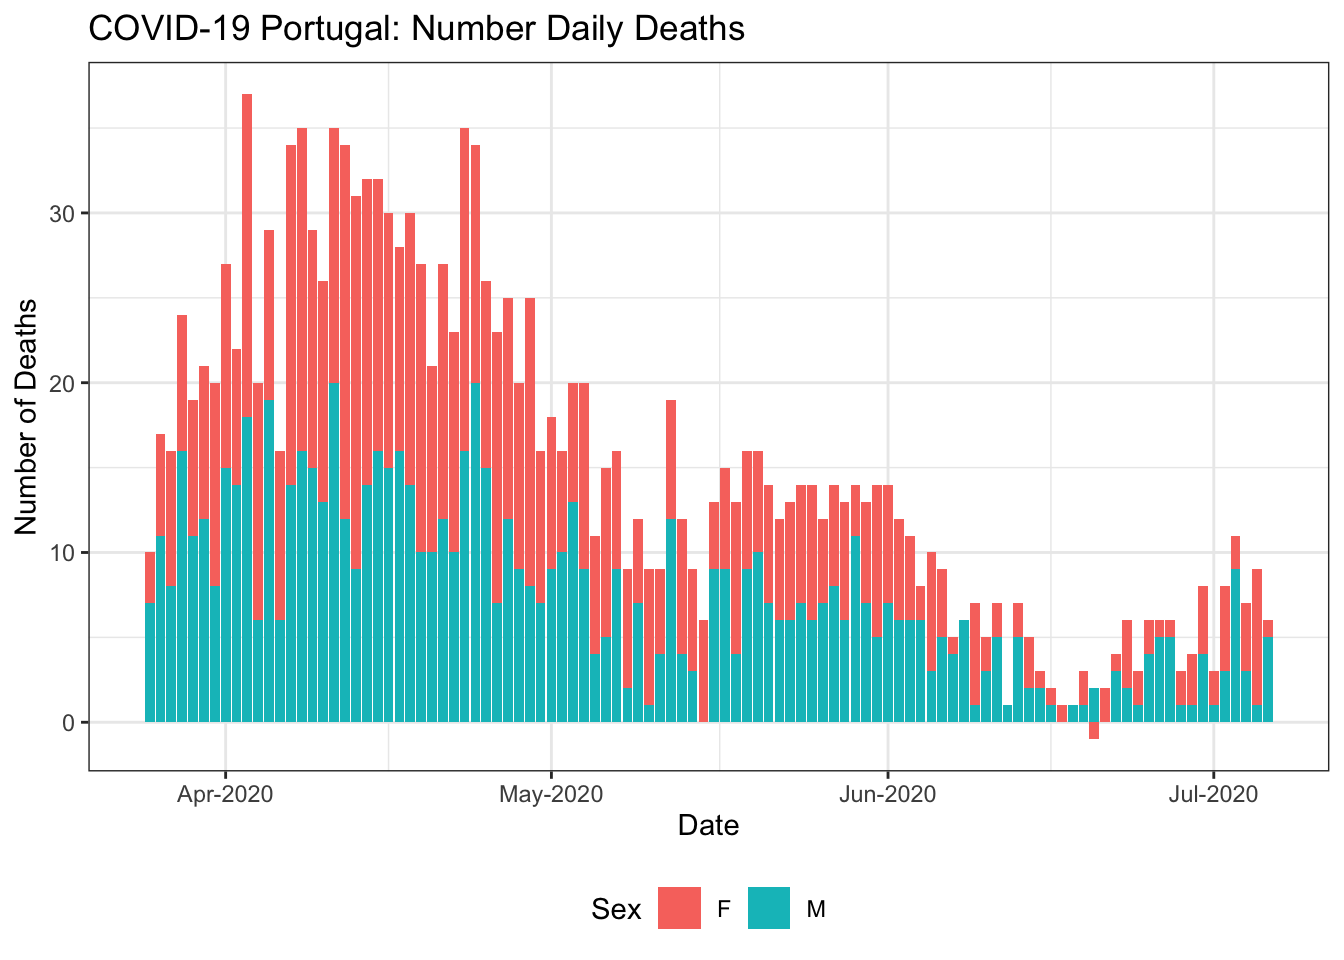
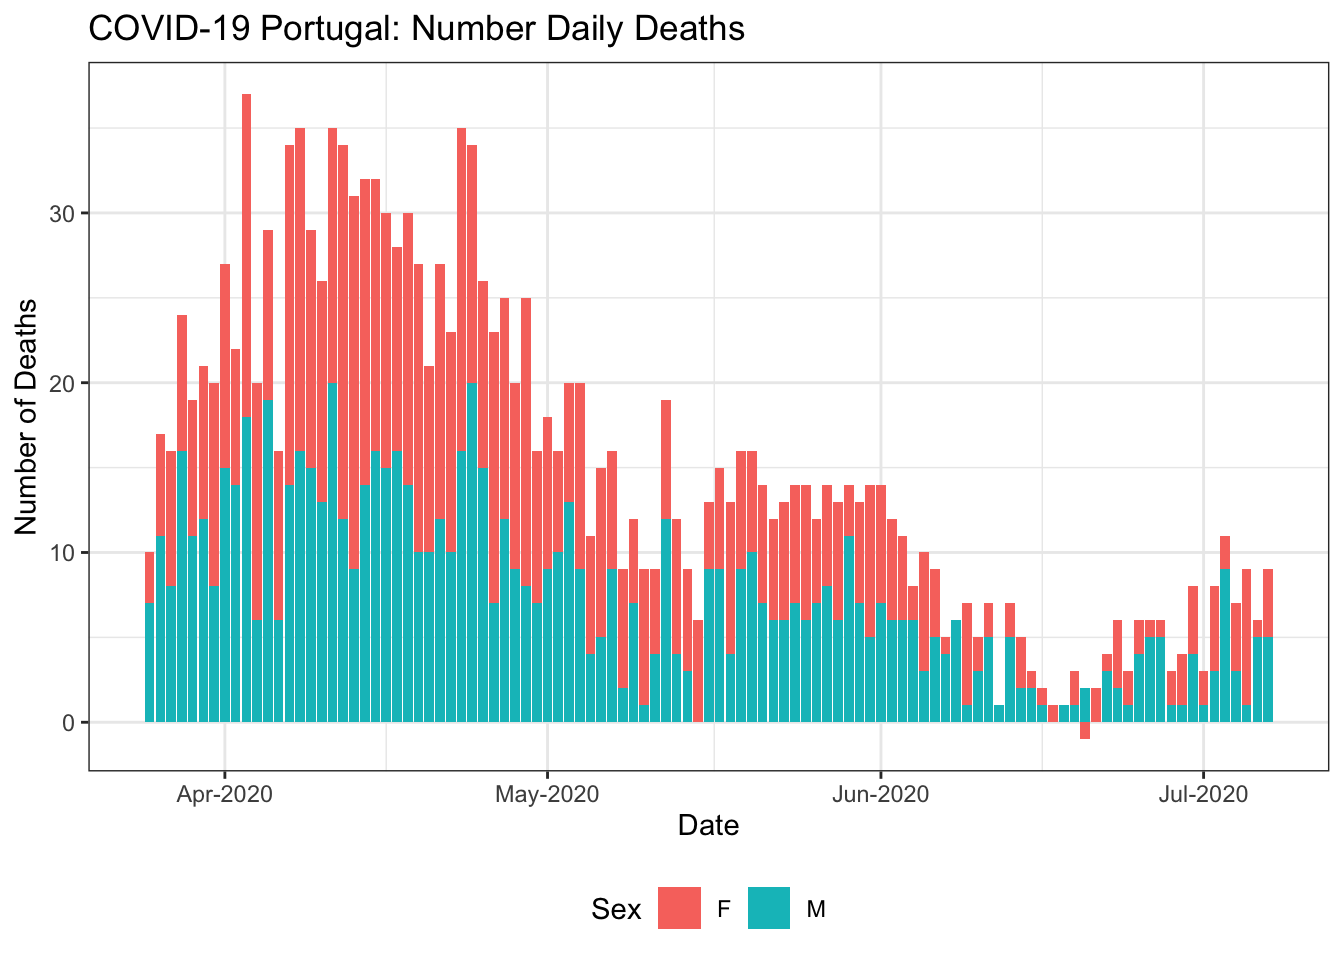
Data Update & Re-build README.Rmd

diff --git a/README.md b/README.md
@@ -1,9 +1,9 @@
 
 ## Daily Portuguese COVID-19 Data
 
-**Last updated: Tue 07 Jul 2020 (03:27:00 UTC \[+0000\])**
+**Last updated: Tue 07 Jul 2020 (15:24:51 UTC \[+0000\])**
 
-  - Data available from **26 Feb 2020** until **06 Jul 2020** (132
+  - Data available from **26 Feb 2020** until **07 Jul 2020** (133
     days).
 
 ### Download User Friendly Version
@@ -48,7 +48,7 @@ suppressPackageStartupMessages(library(here)) # library(here)
 # Read in data as a data.frame and data.table object.
 CV <- fread(here("data", "covid19pt_DSSG_Long.csv"))
 str(CV)
-## Classes 'data.table' and 'data.frame':   11088 obs. of  12 variables:
+## Classes 'data.table' and 'data.frame':   11172 obs. of  12 variables:
 ##  $ data       : chr  "2020-02-26" "2020-02-27" "2020-02-28" "2020-02-29" ...
 ##  $ origVars   : chr  "cadeias_transmissao" "cadeias_transmissao" "cadeias_transmissao" "cadeias_transmissao" ...
 ##  $ origType   : chr  "cadeias" "cadeias" "cadeias" "cadeias" ...
@@ -111,7 +111,7 @@ CV[origType=="confirmados" & ageGrp=="" & region!="Portugal"] %>%
     y = "Number of Confirmed Cases",
     colour = "Region")
 ## Warning: Transformation introduced infinite values in continuous y-axis
-## Warning: Removed 116 row(s) containing missing values (geom_path).
+## Warning: Removed 117 row(s) containing missing values (geom_path).
 ```
 
 <img src="README_figs/README-casesbyRegion-1.png" width="672" />
